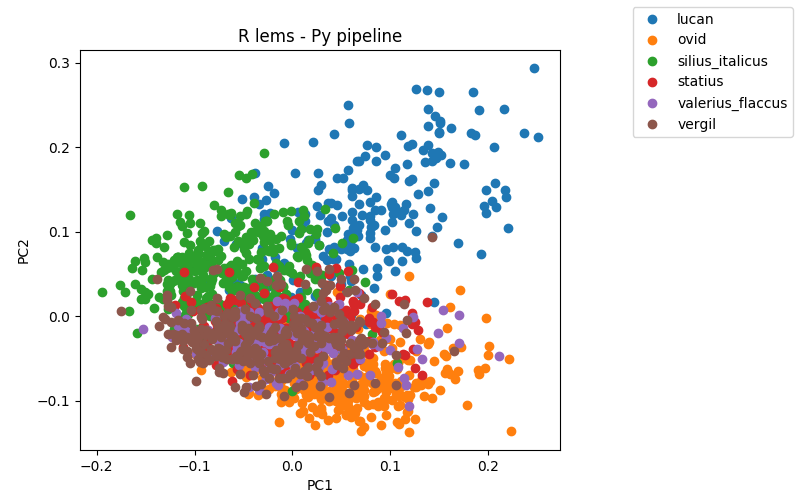
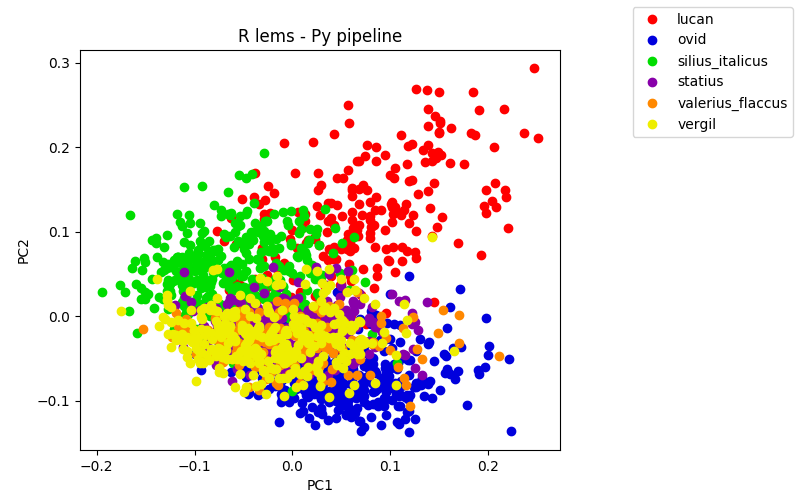
update plots

diff --git a/bin/sample.py b/bin/sample.py
@@ -143,6 +143,16 @@ if __name__ == '__main__':
     print('Plotting')
     labels = np.array(labels)
 
+    # try to simulate R Color Brewer's Set 1
+    colors = [
+        '#ff0000', # red
+        '#0000dd', # blue
+        '#00dd00', # green
+        '#8800aa', # purple
+        '#ff8800', # orange
+        '#eeee00', # yellow
+    ]
+
     # create figure, canvas
     fig = pyplot.figure(figsize=(8,5))
     ax = fig.add_axes([.1,.1,.6,.8])
@@ -153,7 +163,7 @@ if __name__ == '__main__':
     # plot each author as a separate series
     for i, l in enumerate(sorted(set(labels))):
         ax.plot(pca[labels==l,0], pca[labels==l,1], ls='', marker='o',
-            color='C'+str(i), label=l)
+            color=colors[i], label=l)
 
     # add legend
     fig.legend()
